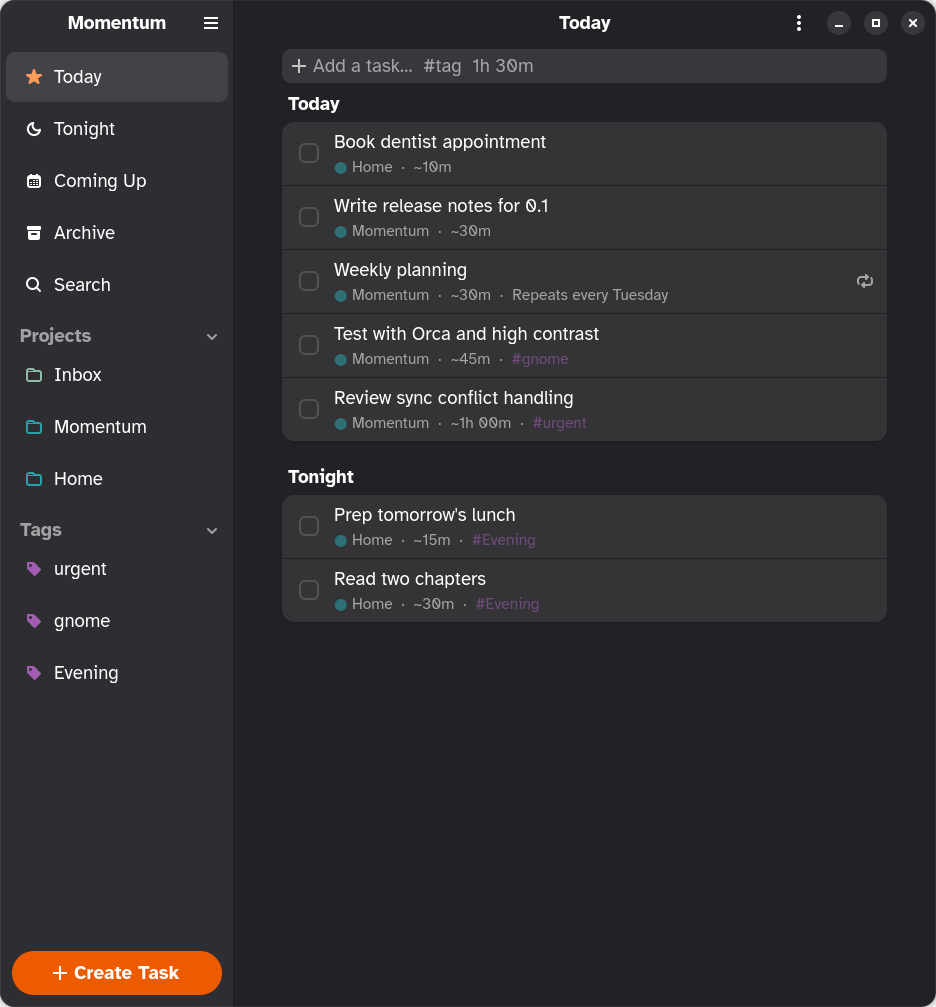
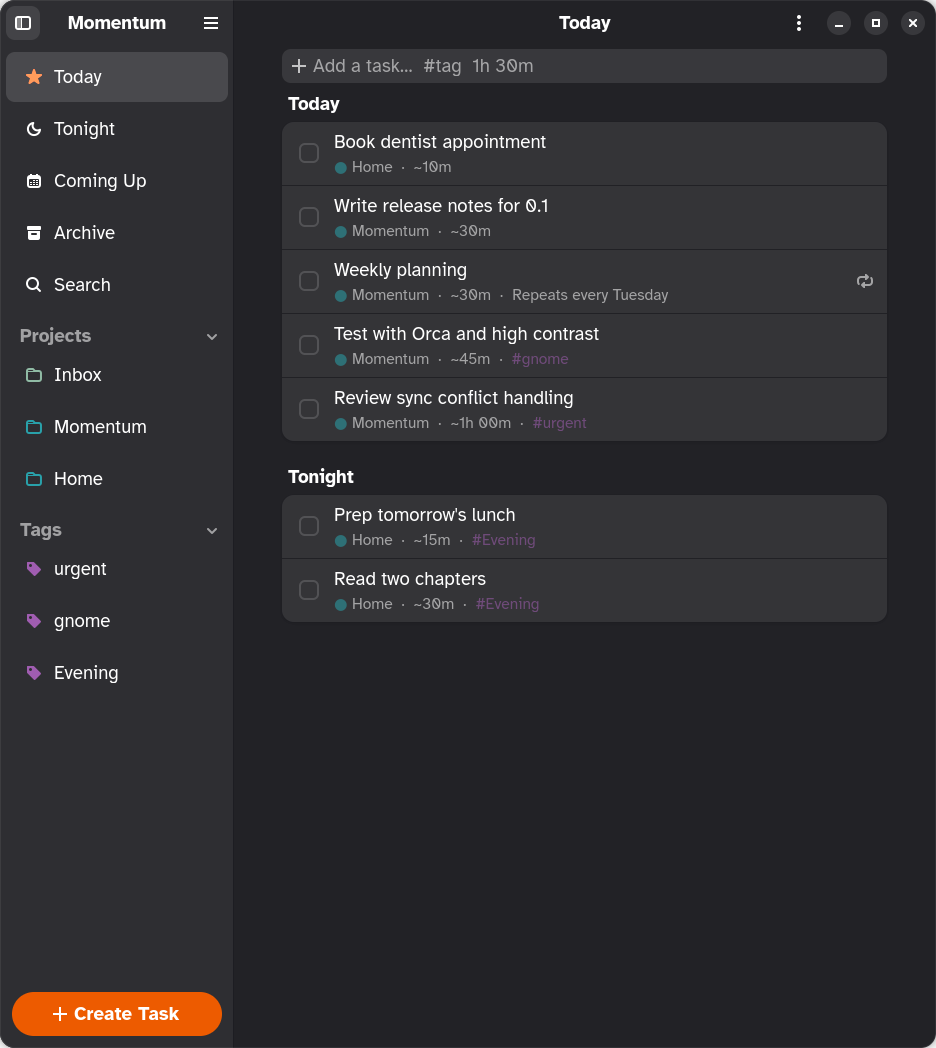
Sidebar show/hide toggle in the header bars (OverlaySplitView)

diff --git a/crates/app/src/window.rs b/crates/app/src/window.rs
@@ -51,7 +51,7 @@ mod imp {
     #[template(resource = "/io/github/dan_hart/Momentum/ui/window.ui")]
     pub struct MomentumWindow {
         #[template_child]
-        pub split_view: TemplateChild<adw::NavigationSplitView>,
+        pub split_view: TemplateChild<adw::OverlaySplitView>,
         #[template_child]
         pub sidebar_list: TemplateChild<gtk::ListBox>,
         #[template_child]
@@ -401,7 +401,9 @@ impl MomentumWindow {
                     *w.imp().view.borrow_mut() = v.clone();
                 }
                 w.imp().archive_shown.set(100);
-                w.imp().split_view.set_show_content(true);
+                if w.imp().split_view.is_collapsed() {
+                    w.imp().split_view.set_show_sidebar(false);
+                }
                 w.refresh_tasks();
             }
         ));
@@ -631,15 +633,8 @@ impl MomentumWindow {
                 w.imp().add_entry.grab_focus();
             }),
             act("toggle-sidebar", |w| {
-                // NavigationSplitView has no show-sidebar: collapsing it hides the sidebar
-                // behind the content; un-collapsing brings it back beside the content.
                 let sv = &w.imp().split_view;
-                if sv.is_collapsed() {
-                    sv.set_collapsed(false);
-                } else {
-                    sv.set_collapsed(true);
-                    sv.set_show_content(true);
-                }
+                sv.set_show_sidebar(!sv.shows_sidebar());
             }),
             act("select-none", |w| w.set_selecting(false)),
             act("next-view", |w| w.step_view(1)),
@@ -1611,7 +1606,9 @@ impl MomentumWindow {
         self.refresh();
     }
     pub fn focus_add(&self) {
-        self.imp().split_view.set_show_content(true);
+        if self.imp().split_view.is_collapsed() {
+            self.imp().split_view.set_show_sidebar(false);
+        }
         self.new_task_dialog();
     }
 

diff --git a/docs/MVP.md b/docs/MVP.md
@@ -39,6 +39,10 @@ Search, Today and Tonight in the Today view) is its own inset boxed list with it
 above the card and empty space between sections, the same structure libadwaita's preference
 groups use. Views without groups are a single card.
 
+The sidebar can be hidden with a toggle at the start of its header bar (F9 does the same);
+while hidden, the same toggle appears at the start of the content header to bring it back.
+On narrow windows the sidebar overlays the content and closes when you pick a view.
+
 Sidebar order: Today, Tonight, Coming Up, Archive, Search, then a collapsible **Projects** section
 and a collapsible **Tags** section. Collapsed state persists. Section headers show a
 chevron and toggle on click, tap or Enter. If the current view is inside a collapsed
